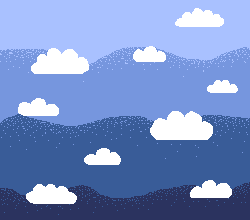
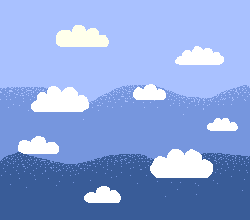
lago 1 + mudanca da imagem de fundo

diff --git a/CandyMaze.py b/CandyMaze.py
@@ -71,6 +71,10 @@ class Fase1:
         self.colisao = False
         self.win = False
         self.win_counter = 0  # Contador de frames na porta final
+        self.x_lago1 = 209
+        self.y_lago1 = 212
+        self.largura_lago1 = 20   #posicão inicial e tamanho do primeiro lago
+        self.altura_lago1 = 8
 
 
     def update_fase1(self):
@@ -153,13 +157,20 @@ class Fase1:
         else:
             self.win_counter = 0  # Reseta contador se sair da porta
             self.win = False
+    #-------------LAGO--------------
+        self.x_lago1 += 0.5 #movimento do lago para a direita, e corte na largura de acordo com o movimento
+        if self.largura_lago1 > 0 and self.x_lago1 < 250:
+            self.largura_lago1 -= 0.5
+        else:                #quando chega no limite imposto ele volta para a posicão inicial para reiniciar o movimento
+            self.largura_lago1 = 20
+            self.x_lago1 = 209
 
     def paredes(self):
         
             self.parede1 = pyxel.blt(122, 172, 1, 191, 0, 6, 40)  # parede vertical
             self.parede2 = pyxel.blt(35, 164, 1, 56, 40, 180, 8)  # parede horizontal 1
-            self.parede3 = pyxel.blt(0, 116, 1, 62, 40, 100, 8)  # parede horizontal 2
-            self.parede4 = pyxel.blt(150, 116, 1, 56, 40, 100, 8)  # parede horizontal 3
+            self.parede3 = pyxel.blt(0, 116, 1, 0, 72, 100, 8)  # parede horizontal 2
+            self.parede4 = pyxel.blt(150, 116, 1, 150, 72, 100, 8)  # parede horizontal 3
             self.parede5 = pyxel.blt(40, 68, 1, 0, 80, 210, 8)   # parede horizontal 4
             
 
@@ -171,10 +182,13 @@ class Fase1:
         pyxel.blt(0, 0, 2, 0, 0, 250, 220)
         pyxel.mouse(False) # mouse desativado
         self.porta_final = pyxel.blt(220, 37, 1, 149, 0, 21, 31) # porta final
+        pyxel.blt(self.x_lago1, self.y_lago1, 1, 101, 0, self.largura_lago1, self.altura_lago1,7) #primeira imagem do looping do lago
+        pyxel.blt(self.x_lago1 - 20, self.y_lago1, 1, 101, 0, 20, self.altura_lago1,7)  #segunda imagem do looping do lago
+        pyxel.blt(self.x_lago1 - 40, self.y_lago1, 1, 101, 0, 20, self.altura_lago1,7)   #terceira imagem do looping do lago
         self.personagem.desenhapersonagem()
         pyxel.text(5+0.5, 5+0.5, "FASE 1", self.colortext)
         pyxel.text(5, 5, "FASE 1", 0)
-        pyxel.blt(0, 212, 1, 0, 88, 250, 8) # chão
+        pyxel.blt(0, 212, 1, 0, 88, 250, 8,7) # chão
         self.paredes()
         if self.win:
             Win().desenhawin()
